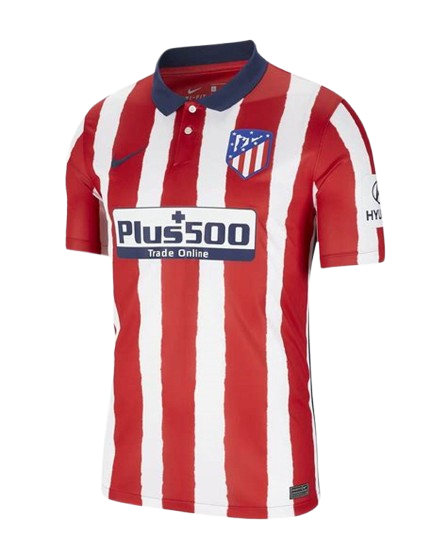
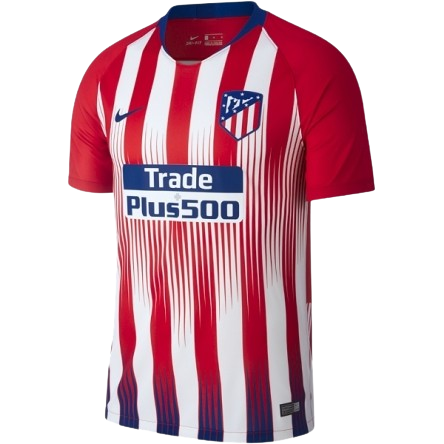
v1.3

diff --git a/index.html b/index.html
@@ -50,17 +50,17 @@
     <section><a href="https://www.futbollufo.com/nueva-camisetas-de-futbol-aston-villa-primera-20222023-p-19577.html" rel="noopener" class="c2" title="Camiseta del Aston Villa"><img src="images/villa.png" alt="Camiseta villa" width="280px" height="300px"><p>ASTON VILLA 1ª EQUIPACION 22-23</p></a></section>
     <section><a href="https://www.futbollufo.com/camiseta-futbol-psg-retro-primera-20182019-p-7947.html" rel="noopener" class="c3" title="Camiseta del PSG"><img src="images/psg.png" alt="Camiseta psg" width="270px" height="300px"><p>PSG 1ª EQUIPACION 18-19</p></a></section>
     <section><a href="https://www.futbollufo.com/primera-camiseta-del-boca-juniors-20182019-p-3147.html" rel="noopener" class="c4" title="Camiseta de Boca Juniors"><img src="images/boca.png" alt="Camiseta boca" width="270px" height="300px"><p>BOCA JUNIORS 1ª EQUIPACION 18-19</p></a></section>
-    <section><a href="#" rel="noopener" class="c5" title="Camiseta del Atletico de Madrid"><img src="images/atleti.png" alt="Camiseta atleti" width="270px" height="300px"><p>ATLÉTICO DE MADRID 1ª EQUIPACION 20-21</p></a></section>
-    <section><a href="#" rel="noopener" class="c6" title="Camiseta del Manchester City"><img src="images/city.png" alt="Camiseta city" width="270px" height="300px"><p>MANCHESTER CITY 1ª EQUIPACION 24-25</p></a></section>
-    <section><a href="#" rel="noopener" class="c7" title="Camiseta del Liverpool"><img src="images/liverpool.png" alt="Camiseta liverpool" width="270px" height="300px"><p>LIVERPOOL TRAINING 24-25</p></a></section>
-    <section><a href="#" rel="noopener" class="c8" title="Camiseta del Real Madrid"><img src="images/madrid.png" alt="Camiseta madrid" width="270px" height="300px"><p>REAL MADRID CF 1ª EQUIPACION 14-15</p></a></section>
-    <section><a href="#" rel="noopener" class="c9" title="Camiseta del Manchester United"><img src="images/manunited.png" alt="Camiseta manunited" width="270px" height="300px"><p>MANCHESTER UNITED 2ª EQUIPACION 15-16</p></a></section>
-    <section><a href="#" rel="noopener" class="c10" title="Camiseta del Bayern Munchen"><img src="images/munchen.png" alt="Camiseta munchen" width="270px" height="300px"><p>BAYERN DE MÚNICH 1ª EQUIPACION 21-22</p></a></section>
-    <section><a href="#" rel="noopener" class="c11" title="Camiseta del Barcelona CF"><img src="images/negreira.png" alt="Camiseta negreira" width="270px" height="300px"><p>FC BARCELONA 3ª EQUIPACION 19-20</p></a></section>
-    <section><a href="#" rel="noopener" class="c12" title="Camiseta de Perú"><img src="images/peru.png" alt="Camiseta peru" width="270px" height="300px"><p>PERÚ 1ª EQUIPACION 24-25</p></a></section>
-    <section><a href="#" rel="noopener" class="c13" title="Camiseta de Colombia"><img src="images/colombia.png" alt="Camiseta colombia" width="280px" height="300px"><p>COLOMBIA 2ª EQUIPACION 22-23</p></a></section>
-    <section><a href="#" rel="noopener" class="c14" title="Camiseta de España"><img src="images/españa.png" alt="Camiseta españa" width="270px" height="300px"><p>ESPAÑA 1ª EQUIPACION 24-25</p></a></section>
-    <section><a href="#" rel="noopener" class="c15" title="Camiseta del Zenit de Sanpetesburgo"><img src="images/zenit.png" alt="Camiseta zenit" width="270px" height="300px"><p>ZENIT 1ª EQUIPACION 24-25</p></a></section>
+    <section><a href="https://www.futbollufo.com/primera-camiseta-del-atletico-madrid-20182019-2xl4xl-p-3376.html" rel="noopener" class="c5" title="Camiseta del Atletico de Madrid"><img src="images/atleti.png" alt="Camiseta atleti" width="270px" height="300px"><p>ATLÉTICO DE MADRID 1ª EQUIPACION 18-19</p></a></section>
+    <section><a href="https://www.futbollufo.com/nueva-camisetas-de-futbol-manchester-city-primera-20222023-p-17340.html" rel="noopener" class="c6" title="Camiseta del Manchester City"><img src="images/city.png" alt="Camiseta city" width="270px" height="300px"><p>MANCHESTER CITY 1ª EQUIPACION 22-23</p></a></section>
+    <section><a href="https://www.futbollufo.com/tercera-camiseta-del-fc-liverpool-20182019-2xl4xl-p-3375.html" rel="noopener" class="c7" title="Camiseta del Liverpool"><img src="images/liverpool.png" alt="Camiseta liverpool" width="270px" height="300px"><p>LIVERPOOL 3ª EQUIPACION 18-19</p></a></section>
+    <section><a href="https://www.futbollufo.com/camisetas-de-futbol-real-madrid-retro-primera-2013-p-44291.html" rel="noopener" class="c8" title="Camiseta del Real Madrid"><img src="images/madrid.png" alt="Camiseta madrid" width="270px" height="300px"><p>REAL MADRID CF 1ª EQUIPACION 13-14</p></a></section>
+    <section><a href="https://www.futbollufo.com/camiseta-futbol-manchester-united-segunda-20072008-p-6784.html" rel="noopener" class="c9" title="Camiseta del Manchester United"><img src="images/manunited.png" alt="Camiseta manunited" width="250px" height="300px"><p>MANCHESTER UNITED 2ª EQUIPACION 07-08</p></a></section>
+    <section><a href="https://www.futbollufo.com/nueva-camisetas-de-futbol-bayern-munich-primera-20222023-p-17103.html" rel="noopener" class="c10" title="Camiseta del Bayern Munchen"><img src="images/munchen.png" alt="Camiseta munchen" width="270px" height="300px"><p>BAYERN DE MÚNICH 1ª EQUIPACION 22-23</p></a></section>
+    <section><a href="https://www.futbollufo.com/segunda-camiseta-del-fc-barcelona-20192020-p-4515.html" rel="noopener" class="c11" title="Camiseta del Barcelona CF"><img src="images/negreira.png" alt="Camiseta negreira" width="270px" height="290px"><p>FC BARCELONA 2ª EQUIPACION 19-20</p></a></section>
+    <section><a href="https://www.futbollufo.com/primera-camiseta-de-per%C3%BA-2018-2019-p-1712.html" rel="noopener" class="c12" title="Camiseta de Perú"><img src="images/peru.png" alt="Camiseta peru" width="290px" height="300px"><p>PERÚ 1ª EQUIPACION 18-19</p></a></section>
+    <section><a href="https://www.futbollufo.com/segunda-camiseta-de-colombia-2018-2019-p-1695.html" rel="noopener" class="c13" title="Camiseta de Colombia"><img src="images/colombia.png" alt="Camiseta colombia" width="280px" height="300px"><p>COLOMBIA 2ª EQUIPACION 18-19</p></a></section>
+    <section><a href="https://www.futbollufo.com/nueva-camisetas-de-futbol-espa%C3%B1a-primera-20222023-p-23152.html" rel="noopener" class="c14" title="Camiseta de España"><img src="images/españa.png" alt="Camiseta españa" width="270px" height="300px"><p>ESPAÑA 1ª EQUIPACION 22-23</p></a></section>
+    <section><a href="https://www.futbollufo.com/nueva-camisetas-de-futbol-fc-copenhagen-primera-20242025-p-44214.html" rel="noopener" class="c15" title="Camiseta del Zenit de Sanpetesburgo"><img src="images/cop.png" alt="Camiseta copenhagen" width="290px" height="300px"><p>COPENHAGEN 1ª EQUIPACION 24-25</p></a></section>
 </main>
 
 <footer>
